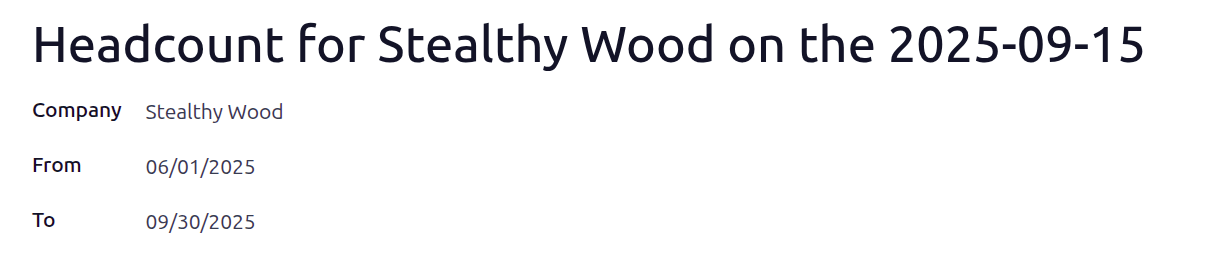
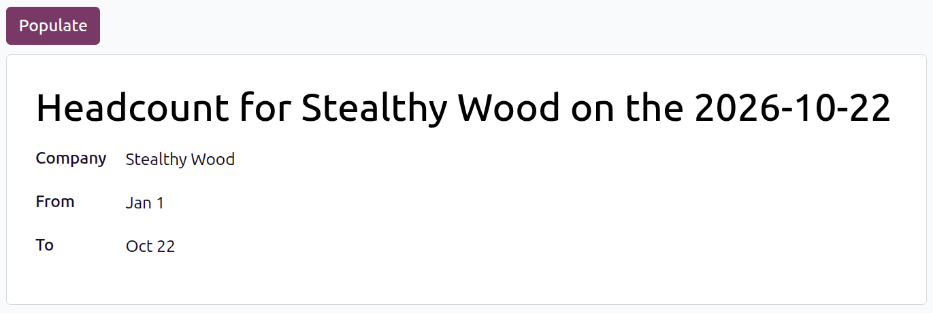
[IMP] Payroll - Headcount report
X-original-commit: 20758c8d9a54ae2e2d893ca42711a0835e1b2247

diff --git a/content/applications/hr/payroll/headcount.rst b/content/applications/hr/payroll/headcount.rst
@@ -2,7 +2,7 @@
 Headcount report
 ================
 
-The *Headcount report* in the **Payroll** app shows the number of employees on payroll and allows
+The *Headcount* report in the **Payroll** app shows the number of employees on payroll and allows
 headcount comparisons between different periods of time.
 
 Create a headcount report
@@ -14,19 +14,21 @@ across periods.
 To create a headcount report, navigate to :menuselection:`Payroll app --> Reporting --> Headcount`
 and click :guilabel:`New`.
 
-- Report name: generated automatically as `Headcount for (Company Name) on the (YYYY-MM-DD)` and
-  **cannot** be modified.
-- :guilabel:`Company`: populated automatically (works in both single and multi-company databases)
-- :guilabel:`From`/:guilabel:`To` dates: defaults to current date (from) and blank (to). Adjust
-  these to define the period to analyze.
-
-.. image:: headcount/new-headcount.png
-   :alt: A headcount report form filled out for the third quarter of 2025.
+- :guilabel:`Report name`: The name is generated automatically as `Headcount for (Company Name) on
+  the (YYYY-MM-DD)` and **cannot** be modified.
+- :guilabel:`Company`: The company is automatically populated (works in both single and
+  multi-company databases).
+- :guilabel:`From`: Using the calendar selector, select the start date for the report. The current
+  date populates this field by default.
+- :guilabel:`To`: Using the calendar selector, select the end date for the report.
 
 Next, click :guilabel:`Populate` to generate the report.
 
-At the top of the form, a :icon:`fa-people` :guilabel:`Employees` smart button appears. Clicking the
+At the top of the form, an :icon:`fa-users` :guilabel:`Employees` smart button appears. Clicking the
 button displays the total number of employees for the selected period.
+
+.. image:: headcount/new-headcount.png
+   :alt: A headcount report created on October 22, 2026 for 2026.
 
 View all headcount reports
 ==========================
@@ -38,16 +40,21 @@ To view all headcount reports, navigate to :menuselection:`Payroll app --> Repor
 View employees in a headcount
 -----------------------------
 
-TO get an overall view of employees and their salary impact on the company, view all employee
+To get an overall view of employees and their salary impact on the company, view all employee
 records of a specific headcount report.
 
-To view the employees of a specific headcount report, click the :icon:`fa-people`
+To view the employees of a specific headcount report, click the :icon:`fa-users`
 :guilabel:`Employees` smart button at the top of a headcount report.
 
 All employees from the headcount appear in a list view, grouped by :guilabel:`Department`.
 
--  :guilabel:`Employee`: the employee's full name
--  :guilabel:`Department`: the department their job position is in
--  :guilabel:`Job Title`: their role
--  :guilabel:`Employer Cost`: how much the company pays the employee each pay-period
-- :guilabel:`Wage on Payroll`: the dollar amount on payroll reports
+- :guilabel:`Employee`: The employee's full name.
+- :guilabel:`Department`: The department their job position is in.
+- :guilabel:`Job Title`: Their specific role.
+- :guilabel:`Employer Cost`: How much the company pays the employee each pay period.
+- :guilabel:`Wage On Payroll`: The monetary amount on payroll reports.
+
+Click on any department to expand the list and view the employees.
+
+.. image:: headcount/employee-list.png
+   :alt: The headcount report showing expanded departments.
